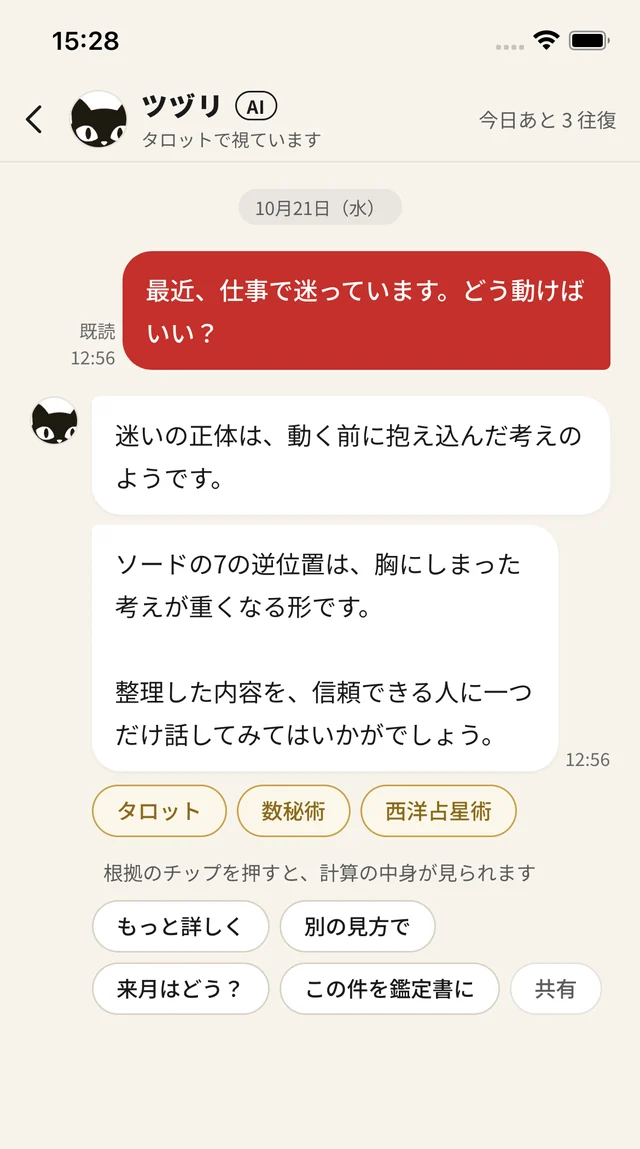
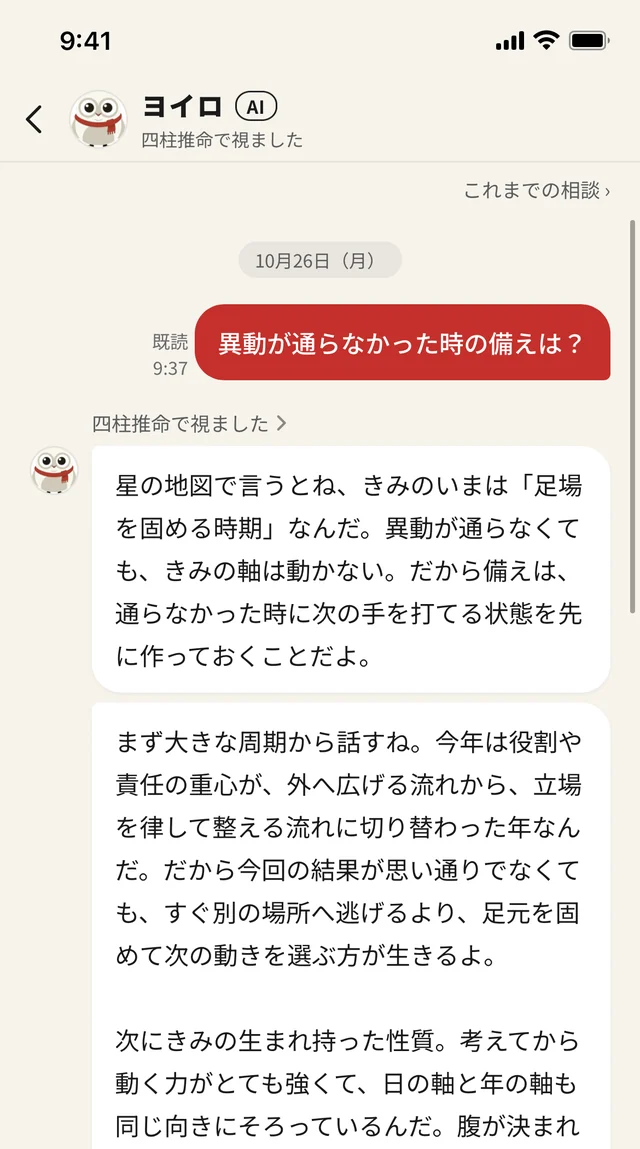
公開: 2026-10-26 02:07

diff --git a/app/index.html b/app/index.html
@@ -4,21 +4,21 @@
 <meta charset="utf-8">
 <meta name="viewport" content="width=device-width, initial-scale=1">
 <title>おつげ｜覚えてくれる AI 占いアプリ・毎朝 1 通の手紙</title>
-<meta name="description" content="AI の占い師 10 人（ツヅリ・ヨイロ・モチロ など）が、生年月日と話したことを覚えて、毎朝 1 通の手紙を届ける占いアプリ「おつげ」。相談は 1 日 3 往復まで無料、今日の一枚は本物のタロットで。アプリは準備中です。">
+<meta name="description" content="AI の占い師 12 人（ヨイロ・ツヅリ・モチロ など）が、生年月日と話したことを覚えて、毎朝 1 通の手紙を届ける占いアプリ「おつげ」。相談は 1 日 3 往復まで無料、今日の一枚は本物のタロットで。アプリは準備中です。">
 <link rel="canonical" href="https://otsuge.jp/app/">
 <meta property="og:type" content="website">
 <meta property="og:site_name" content="おつげ">
 <meta property="og:title" content="おつげ｜覚えてくれる AI 占いアプリ・毎朝 1 通の手紙">
-<meta property="og:description" content="AI の占い師 10 人（ツヅリ・ヨイロ・モチロ など）が、生年月日と話したことを覚えて、毎朝 1 通の手紙を届ける占いアプリ「おつげ」。相談は 1 日 3 往復まで無料、今日の一枚は本物のタロットで。アプリは準備中です。">
+<meta property="og:description" content="AI の占い師 12 人（ヨイロ・ツヅリ・モチロ など）が、生年月日と話したことを覚えて、毎朝 1 通の手紙を届ける占いアプリ「おつげ」。相談は 1 日 3 往復まで無料、今日の一枚は本物のタロットで。アプリは準備中です。">
 <meta property="og:url" content="https://otsuge.jp/app/">
 <meta property="og:locale" content="ja_JP">
 <meta property="og:image" content="https://otsuge.jp/img/og.png">
 <meta property="og:image:width" content="1200">
 <meta property="og:image:height" content="630">
-<meta property="og:image:alt" content="占いアプリ「おつげ」覚えてくれる AI 占い。毎朝 1 通、あなたの一日に合わせた手紙。黒猫の占い師ツヅリ">
+<meta property="og:image:alt" content="占いアプリ「おつげ」覚えてくれる AI 占い。毎朝 1 通、あなたの一日に合わせた手紙。フクロウの占い師ヨイロ">
 <meta name="twitter:card" content="summary_large_image">
 <meta name="twitter:title" content="おつげ｜覚えてくれる AI 占いアプリ・毎朝 1 通の手紙">
-<meta name="twitter:description" content="AI の占い師 10 人（ツヅリ・ヨイロ・モチロ など）が、生年月日と話したことを覚えて、毎朝 1 通の手紙を届ける占いアプリ「おつげ」。相談は 1 日 3 往復まで無料、今日の一枚は本物のタロットで。アプリは準備中です。">
+<meta name="twitter:description" content="AI の占い師 12 人（ヨイロ・ツヅリ・モチロ など）が、生年月日と話したことを覚えて、毎朝 1 通の手紙を届ける占いアプリ「おつげ」。相談は 1 日 3 往復まで無料、今日の一枚は本物のタロットで。アプリは準備中です。">
 <meta name="twitter:image" content="https://otsuge.jp/img/og.png">
 <meta name="theme-color" content="#ffffff">
 <link rel="icon" href="../favicon.ico" sizes="16x16 32x32 48x48">
@@ -27,7 +27,7 @@
 <link rel="preconnect" href="https://fonts.googleapis.com">
 <link rel="preconnect" href="https://fonts.gstatic.com" crossorigin>
 <link rel="stylesheet" href="https://fonts.googleapis.com/css2?family=Noto+Sans+JP:wght@400;700;900&display=swap">
-<link rel="stylesheet" href="https://fonts.googleapis.com/css2?family=Shippori+Mincho:wght@500&amp;display=swap&amp;text=%E3%81%AF%E3%81%98%E3%82%81%E3%81%BE%E3%81%97%E3%81%A6%E3%80%81%E3%83%84%E3%83%85%E3%83%AA%E3%81%A7%E3%81%99%E3%80%82%E7%B5%90%E8%AB%96%E3%81%8B%E3%82%89%E7%9F%AD%E3%81%8F%E4%BC%9D%E3%81%88%E3%82%8B%E3%81%AD%E6%BA%96%E5%82%99%E3%81%8C%E3%81%8D%E3%81%9F%E6%9C%80%E5%88%9D%E3%81%AE1%20%E9%80%9A%E3%82%92%E6%9B%B8">
+<link rel="stylesheet" href="https://fonts.googleapis.com/css2?family=Shippori+Mincho:wght@500&amp;display=swap&amp;text=%E3%81%AF%E3%81%98%E3%82%81%E3%81%BE%E3%81%97%E3%81%A6%E3%80%81%E3%83%A8%E3%82%A4%E3%83%AD%E3%81%A0%E3%82%88%E3%80%82%E3%81%9A%E5%85%A8%E4%BD%93%E3%81%AE%E6%B5%81%E3%82%8C%E3%81%8B%E3%82%89%E3%81%8D%E3%81%BF%E3%81%A8%E8%A6%8B%E3%81%84%E3%81%8F%E3%82%93%E6%BA%96%E5%82%99%E3%81%8C%E3%81%A7%E3%81%9F%E6%9C%80%E5%88%9D1%20%E9%80%9A%E3%82%92%E5%A4%A9%E6%96%87%E5%8F%B0%E5%B1%8A%E3%81%91%E3%82%8B%E3%81%AD">
 <link rel="stylesheet" href="../css/site.css">
 <script type="application/ld+json">{"@context":"https://schema.org","@type":"BreadcrumbList","itemListElement":[{"@type":"ListItem","position":1,"name":"おつげ 無料鑑定","item":"https://otsuge.jp/"},{"@type":"ListItem","position":2,"name":"アプリ「おつげ」","item":"https://otsuge.jp/app/"}]}</script>
 </head>
@@ -42,39 +42,39 @@
 <div class="ap-hero">
 <div class="ap-copy">
 <p class="ap-name"><img src="../icon-192.png" alt="" width="192" height="192" class="icon"><span>占いアプリ「おつげ」</span></p>
-<div class="ap-teller hero">
-<img src="../img/tsuzuri_full.webp" alt="黒猫の占い師ツヅリ" width="420" height="496" fetchpriority="high">
-<div class="ap-bubble"><p class="who">ツヅリ<span class="ai">AI</span></p><p class="msg">はじめまして、ツヅリです。結論から、短く伝えるね。</p></div>
+<div class="ap-teller lead">
+<img src="../img/yoiro_full.webp" alt="フクロウの占い師ヨイロ" width="420" height="496" fetchpriority="high">
+<div class="ap-bubble"><p class="who">ヨイロ<span class="ai">AI</span></p><p class="msg">はじめまして、ヨイロだよ。まず全体の流れから、きみと見ていくんだ。</p></div>
 </div>
 <h1>覚えてくれる AI 占い</h1>
 <p class="ap-sub">毎朝 1 通、あなたの一日に合わせた手紙が届きます</p>
 <p class="cs" data-todo="app-store-url"><span class="en">Coming soon</span><span class="ja">アプリは準備中です</span></p>
 <p class="ap-note">生年月日だけで、登録なし・無料ではじめられます。</p>
 </div>
-<div class="ap-visual"><div class="phone"><img src="../img/app/home.webp" alt="おつげのホーム画面。ツヅリの一言、今日の運勢、今日のやること" width="640" height="1385" fetchpriority="high"></div></div>
+<div class="ap-visual"><div class="phone"><img src="../img/app/home.webp" alt="おつげのホーム画面。ヨイロの一言、今日の運勢、これからの 7 日、今日のやること" width="640" height="1385" fetchpriority="high"></div></div>
 </div>
 
 <section class="ap-sec" aria-labelledby="dk"><h2 id="dk">おつげでできること</h2>
 <div class="feat">
 <div class="tx"><p class="key">毎朝の手紙</p><h3>毎朝 1 通、あなたへの手紙</h3><p>朝になると、占い師から 1 通届きます。その日の六曜・月の満ち欠け・干支と、あなたの生まれの計算から、今日の過ごし方と、小さな一歩をひとつ。</p><ul><li>「なぜ今日か」の根拠つき（暦・数秘術など）</li><li>ラッキーカラー・数字・方位</li><li>一歩を「やった／まだ」で記録</li></ul></div>
-<figure class="scr"><div class="frame"><img src="../img/app/letter.webp" alt="けさのおつげの画面。ツヅリからの手紙と、今日の一歩" width="640" height="1149" loading="lazy"></div></figure>
+<figure class="scr"><div class="frame"><img src="../img/app/letter.webp" alt="けさのおつげの画面。ヨイロからの手紙と、ラッキーカラー・数字・方位、今日の一歩" width="640" height="1247" loading="lazy"></div></figure>
 </div>
 <div class="feat rev">
-<div class="tx"><p class="key">相談</p><h3>話したことを覚えている相談</h3><p>気になることを、占い師にチャットで聞けます。話した出来事や目標は「覚えていること」に残り、次の相談と毎朝の手紙に生きてきます。</p><ul><li>無料で 1 日 3 往復</li><li>根拠のチップを押すと、計算の中身が見られます</li><li>覚えていることは 1 件ずつ消せます</li></ul></div>
-<figure class="scr"><div class="frame"><img src="../img/app/chat.webp" alt="ツヅリへの相談の画面。質問と、タロット・数秘術・西洋占星術の根拠つきの返事" width="640" height="1149" loading="lazy"></div></figure>
+<div class="tx"><p class="key">相談</p><h3>話したことを覚えている相談</h3><p>気になることを、占い師にチャットで聞けます。話した出来事や目標は「覚えていること」に残り、次の相談と毎朝の手紙に生きてきます。</p><ul><li>無料で 1 日 3 往復</li><li>返事の頭の「〜で視ました」を押すと、計算の中身が見られます</li><li>覚えていることは 1 件ずつ消せます</li></ul></div>
+<figure class="scr"><div class="frame"><img src="../img/app/chat.webp" alt="ヨイロへの相談の画面。異動の質問と、四柱推命で視た返事" width="640" height="1149" loading="lazy"></div></figure>
 </div>
 <div class="feat">
 <div class="tx"><p class="key">今日の一枚</p><h3>今日の一枚は、本物のタロットで</h3><p>心に浮かべた問いをひとつ選んで、伏せた札から 1 枚めくります。札はライダー・ウェイト・スミス版（1909 年）の 78 枚。向き（正位置・逆位置）まで読みます。</p><ul><li>問いは 恋愛・仕事・お金・人間関係・自分 から</li><li>1 日 1 回・無料</li><li>引いた札のまま相談に進めます</li></ul></div>
-<figure class="scr"><div class="frame"><img src="../img/app/tarot.webp" alt="今日の一枚の画面。太陽のカードと、ツヅリの読み" width="640" height="1149" loading="lazy"></div></figure>
+<figure class="scr"><div class="frame"><img src="../img/app/tarot.webp" alt="今日の一枚の画面。異動の問いで引いた吊るされた男（逆位置）と、札の意味" width="640" height="1280" loading="lazy"></div></figure>
 </div>
 </section>
 
-<section class="ap-sec" aria-labelledby="ur"><h2 id="ur">占い師は 10 人。あなたの味方を 1 人</h2>
+<section class="ap-sec" aria-labelledby="ur"><h2 id="ur">占い師は 12 人。あなたの味方を 1 人</h2>
 <div class="ur-body">
 <p class="intro">最初に 1 人を選びます。毎朝の手紙と相談は、選んだ占い師が担当します。話したことは、だれを選んでも覚えています。あとから設定で変えられます。</p>
 <ul class="tellers">
-<li><img src="../img/yoiro_full.webp" alt="フクロウの占い師ヨイロ" width="420" height="496" loading="lazy"><div><p class="nm">ヨイロ<span class="ai">AI</span></p><p class="sp">フクロウ・大きな流れから</p><p class="ln">大きな流れから。全体を見せてから、細かな話に進みます</p></div></li>
-<li><img src="../img/tsuzuri_full.webp" alt="黒猫の占い師ツヅリ" width="420" height="496" loading="lazy"><div><p class="nm">ツヅリ<span class="ai">AI</span><span class="pick">おすすめ</span></p><p class="sp">黒猫・結論から</p><p class="ln">結論から短く。先に答えを言ってから、理由を 1 行添えます</p></div></li>
+<li><img src="../img/yoiro_full.webp" alt="フクロウの占い師ヨイロ" width="420" height="496" loading="lazy"><div><p class="nm">ヨイロ<span class="ai">AI</span><span class="pick">おすすめ</span></p><p class="sp">フクロウ・大きな流れから</p><p class="ln">大きな流れから。全体を見せてから、細かな話に進みます</p></div></li>
+<li><img src="../img/tsuzuri_full.webp" alt="黒猫の占い師ツヅリ" width="420" height="496" loading="lazy"><div><p class="nm">ツヅリ<span class="ai">AI</span></p><p class="sp">黒猫・結論から</p><p class="ln">結論から短く。先に答えを言ってから、理由を短く添えます</p></div></li>
 <li><img src="../img/mochiro_full.webp" alt="月ウサギの占い師モチロ" width="420" height="496" loading="lazy"><div><p class="nm">モチロ<span class="ai">AI</span></p><p class="sp">月ウサギ・今日の一歩を</p><p class="ln">今日の一歩を。大きな話より、今日できるひとつを大事にします</p></div></li>
 <li><img src="../img/kiriri_full.webp" alt="白狐の占い師キリリ" width="420" height="496" loading="lazy"><div><p class="nm">キリリ<span class="ai">AI</span></p><p class="sp">白狐・はっきり言う</p><p class="ln">はっきり言う。良いことも悪いことも、先に言います</p></div></li>
 <li><img src="../img/yururi_full.webp" alt="たぬきの占い師ユルリ" width="420" height="496" loading="lazy"><div><p class="nm">ユルリ<span class="ai">AI</span></p><p class="sp">たぬき・まず受け止める</p><p class="ln">まず受け止める。急がせず、気持ちをそのまま聞きます</p></div></li>
@@ -83,6 +83,8 @@
 <li><img src="../img/kikuno_full.webp" alt="柴犬の占い師キクノ" width="420" height="496" loading="lazy"><div><p class="nm">キクノ<span class="ai">AI</span></p><p class="sp">柴犬・先に聞く</p><p class="ln">先に聞く。問い返して、考えを一緒に整えます</p></div></li>
 <li><img src="../img/shirabe_full.webp" alt="鶴の占い師シラベ" width="420" height="496" loading="lazy"><div><p class="nm">シラベ<span class="ai">AI</span></p><p class="sp">鶴・根拠をそろえる</p><p class="ln">根拠をそろえる。数と理由を順に並べて、答えを支えます</p></div></li>
 <li><img src="../img/tokoyo_full.webp" alt="亀の占い師トコヨ" width="420" height="496" loading="lazy"><div><p class="nm">トコヨ<span class="ai">AI</span></p><p class="sp">亀・長い目で</p><p class="ln">長い目で。1 年・3 年の流れの中に、今を置きます</p></div></li>
+<li><img src="../img/takuwa_full.webp" alt="ハムスターの占い師タクワ" width="420" height="496" loading="lazy"><div><p class="nm">タクワ<span class="ai">AI</span></p><p class="sp">ハムスター・備えておく</p><p class="ln">備えておく。もしもの場合をひとつ挙げて、そのための備えを添えます</p></div></li>
+<li><img src="../img/meguru_full.webp" alt="カエルの占い師メグル" width="420" height="496" loading="lazy"><div><p class="nm">メグル<span class="ai">AI</span></p><p class="sp">カエル・めぐる時期を</p><p class="ln">めぐる時期を。悪い流れも、いつ戻るかを添えて読みます</p></div></li>
 </ul>
 </div>
 </section>
@@ -94,7 +96,7 @@
 <p class="sm">生年月日だけで、登録なしではじめられます。</p></div>
 <div class="plan-col">
 <div class="plan"><h3>プレミアム</h3>
-<dl class="rows"><div><dt>年額</dt><dd><b>¥7,800</b> <span class="nw">（月あたり ¥650）</span></dd></div><div><dt>月額</dt><dd><b>¥1,480</b></dd></div></dl>
+<dl class="rows"><div><dt>年額</dt><dd><b>¥9,800</b> <span class="nw">（月あたり ¥817）</span></dd></div><div><dt>6 か月</dt><dd><b>¥6,400</b> <span class="nw">（月あたり ¥1,067）</span></dd></div><div><dt>3 か月</dt><dd><b>¥3,800</b> <span class="nw">（月あたり ¥1,267）</span></dd></div><div><dt>月額</dt><dd><b>¥1,480</b></dd></div></dl>
 <ul><li>相談 1 日 10 往復</li><li>重い相談も結論まで</li><li>全部の鑑定の全文</li></ul></div>
 <div class="plan"><h3>鑑定書（1 通ずつ）</h3>
 <p class="sm">ひとつの相談を、結論とその理由まで読み解いた 1 通。PDF で保存できます。</p>
@@ -106,7 +108,7 @@
 
 <section class="ap-sec" aria-labelledby="ai"><h2 id="ai">AI の鑑定と、あなたの情報</h2>
 <dl class="qa">
-<div><dt>鑑定は、だれが書いていますか</dt><dd>AI が書いています。ヨイロ・ツヅリ・モチロは人ではなく AI の占い師で、霊感や鑑定歴はありません。星の位置・命式・数は計算で出し、AI には計算させません。タロットの札も AI には選ばせません。</dd></div>
+<div><dt>鑑定は、だれが書いていますか</dt><dd>AI が書いています。おつげの占い師は 12 人とも人ではなく AI で、霊感や鑑定歴はありません。星の位置・命式・数は計算で出し、AI には計算させません。タロットの札も AI には選ばせません。</dd></div>
 <div><dt>結果は約束されますか</dt><dd>鑑定は、娯楽を目的とした読み物です。結果を約束するものではありません。大切なことは、鑑定をひとつの材料として、ご自身で決めてください。</dd></div>
 <div><dt>何歳から使えますか</dt><dd>18 歳以上の方がご利用いただけます。18 歳未満の方はご利用いただけません。</dd></div>
 <div><dt>入力した生年月日や相談はどう扱われますか</dt><dd>鑑定文をつくるため、出生データと相談の文章を、おつげのサーバーを通して AI の提供元（米国の Anthropic, PBC）へ送ります。最初の鑑定の前に同意をいただきます。保管は日本（東京）で、通信も保管も暗号化しています。</dd></div>
@@ -124,8 +126,8 @@
 
 <section class="ap-end" aria-labelledby="dl">
 <div class="ap-teller end">
-<img src="../img/tsuzuri_full.webp" alt="黒猫の占い師ツヅリ" width="420" height="496" loading="lazy">
-<div class="ap-bubble"><p class="who">ツヅリ<span class="ai">AI</span></p><p class="msg">準備ができたら、最初の<span class="nw">1 通</span>を書くね。</p></div>
+<img src="../img/yoiro_full.webp" alt="フクロウの占い師ヨイロ" width="420" height="496" loading="lazy">
+<div class="ap-bubble"><p class="who">ヨイロ<span class="ai">AI</span></p><p class="msg">準備ができたら、最初の<span class="nw">1 通</span>を天文台から届けるね。</p></div>
 </div>
 <h2 id="dl">覚えてくれる AI 占い「おつげ」</h2>
 <p class="cs" data-todo="app-store-url"><span class="en">Coming soon</span><span class="ja">アプリは準備中です</span></p>

diff --git a/kichijitsu/2027/07/index.html b/kichijitsu/2027/07/index.html
@@ -53,7 +53,7 @@
 <tr><td data-date="2027-07-25" class="red"><div class="n">25</div><div class="rk">先負</div><div class="tags"></div></td><td data-date="2027-07-26"><div class="n">26</div><div class="rk">仏滅</div><div class="tags"><span class="chip ichiryu"><span class="l">一粒万倍日</span><span class="s">万倍</span></span></div></td><td data-date="2027-07-27"><div class="n">27</div><div class="rk taian">大安</div><div class="tags"></div></td><td data-date="2027-07-28"><div class="n">28</div><div class="rk">赤口</div><div class="tags"></div></td><td data-date="2027-07-29"><div class="n">29</div><div class="rk">先勝</div><div class="tags"><span class="chip ichiryu"><span class="l">一粒万倍日</span><span class="s">万倍</span></span></div></td><td data-date="2027-07-30"><div class="n">30</div><div class="rk">友引</div><div class="tags"></div></td><td data-date="2027-07-31"><div class="n">31</div><div class="rk">先負</div><div class="tags"></div></td></tr></tbody></table>
 <div class="legend" aria-label="凡例"><span><span class="chip tensha">天赦</span>天赦日</span><span><span class="chip ichiryu">万倍</span>一粒万倍日</span><span><span class="chip moon">●新月</span>／<span class="chip moon">○満月</span></span><span><span class="chip retro">逆行</span>水星逆行の始まり／<span class="chip retro">順行</span>終わり</span></div>
 </section>
-<section aria-label="ツヅリのひとこと"><div class="say"><img src="../../../img/tsuzuri.png" alt="黒猫の占い師ツヅリ" width="118" height="100" loading="lazy"><div class="bubble"><p class="who">ツヅリ（おつげの占い師）</p><p><span class="nw">7月14日（水）</span>は天赦日と一粒万倍日が重なる、この月でいちばん大きな吉日です。始めたいことの最初の一歩を、ここに置いてみませんか。2027年6月11日〜7月5日は水星逆行。連絡や契約は、いつもより一度見直してから。</p></div></div></section>
+<section aria-label="ヨイロのひとこと"><div class="say"><img src="../../../img/yoiro.png" alt="フクロウの占い師ヨイロ" width="118" height="100" loading="lazy"><div class="bubble"><p class="who">ヨイロ（おつげの占い師）</p><p>7月をひと目で見ると、山は<span class="nw">7月14日（水）</span>なんだ。天赦日と一粒万倍日が重なる、この月でいちばん大きな吉日だよ。始めたいことの最初の一歩は、ここに置くといいね。2027年6月11日〜7月5日は水星逆行で、雲が出ている時期だね。連絡や契約は、送る前に一度見直してからにしよう。</p></div></div></section>
 <section aria-labelledby="dl"><h2 id="dl">7月の六曜と吉日（日ごと）</h2>
 <table class="days"><thead><tr><th scope="col">日付</th><th scope="col">六曜</th><th scope="col">吉日・暦</th></tr></thead><tbody><tr><th scope="row"><span class="nw">7月1日（木）</span><small>旧暦 5月27日・辛巳</small></th><td class="rk">先勝</td><td class="e"><div class="ev"><span class="chip ichiryu">一粒万倍日</span><span class="t">水星逆行中</span></div></td></tr>
 <tr><th scope="row"><span class="nw">7月2日（金）</span><small>旧暦 5月28日・壬午</small></th><td class="rk">友引</td><td class="e"><div class="ev"><span class="chip ichiryu">一粒万倍日</span><span class="t">水星逆行中</span></div></td></tr>

diff --git a/kichijitsu/2027/09/index.html b/kichijitsu/2027/09/index.html
@@ -53,7 +53,7 @@
 <tr><td data-date="2027-09-26" class="red top"><div class="n">26</div><div class="rk">先負</div><div class="tags"><span class="chip tensha"><span class="l">天赦日</span><span class="s">天赦</span></span><span class="chip ichiryu"><span class="l">一粒万倍日</span><span class="s">万倍</span></span></div></td><td data-date="2027-09-27"><div class="n">27</div><div class="rk">仏滅</div><div class="tags"></div></td><td data-date="2027-09-28"><div class="n">28</div><div class="rk taian">大安</div><div class="tags"></div></td><td data-date="2027-09-29"><div class="n">29</div><div class="rk">赤口</div><div class="tags"></div></td><td data-date="2027-09-30"><div class="n">30</div><div class="rk">先負</div><div class="tags"><span class="chip moon">●<span class="l">新月 11:36</span><span class="s">新月</span></span></div></td><td class="blank"></td><td class="blank"></td></tr></tbody></table>
 <div class="legend" aria-label="凡例"><span><span class="chip tensha">天赦</span>天赦日</span><span><span class="chip ichiryu">万倍</span>一粒万倍日</span><span><span class="chip moon">●新月</span>／<span class="chip moon">○満月</span></span><span><span class="chip retro">逆行</span>水星逆行の始まり／<span class="chip retro">順行</span>終わり</span></div>
 </section>
-<section aria-label="ツヅリのひとこと"><div class="say"><img src="../../../img/tsuzuri.png" alt="黒猫の占い師ツヅリ" width="118" height="100" loading="lazy"><div class="bubble"><p class="who">ツヅリ（おつげの占い師）</p><p><span class="nw">9月26日（日）</span>は天赦日と一粒万倍日が重なる、この月でいちばん大きな吉日です。始めたいことの最初の一歩を、ここに置いてみませんか。新月は<span class="nw">9月1日（水）</span>。願い事を書き出すなら、この日に。</p></div></div></section>
+<section aria-label="ヨイロのひとこと"><div class="say"><img src="../../../img/yoiro.png" alt="フクロウの占い師ヨイロ" width="118" height="100" loading="lazy"><div class="bubble"><p class="who">ヨイロ（おつげの占い師）</p><p>9月をひと目で見ると、山は<span class="nw">9月26日（日）</span>なんだ。天赦日と一粒万倍日が重なる、この月でいちばん大きな吉日だよ。始めたいことの最初の一歩は、ここに置くといいね。星の地図で言うとね、新月は<span class="nw">9月1日（水）</span>。願い事を書き出すなら、この夜がいいね。</p></div></div></section>
 <section aria-labelledby="dl"><h2 id="dl">9月の六曜と吉日（日ごと）</h2>
 <table class="days"><thead><tr><th scope="col">日付</th><th scope="col">六曜</th><th scope="col">吉日・暦</th></tr></thead><tbody><tr><th scope="row"><span class="nw">9月1日（水）</span><small>旧暦 8月1日・癸未</small></th><td class="rk">友引</td><td class="e"><div class="ev"><span class="chip ichiryu">一粒万倍日</span><span class="t">新月（02:41）</span></div></td></tr>
 <tr class="quiet"><th scope="row"><span class="nw">9月2日（木）</span><small>旧暦 8月2日・甲申</small></th><td class="rk">先負</td><td class="e"><div class="ev">—</div></td></tr>

diff --git a/kichijitsu/2026/12/index.html b/kichijitsu/2026/12/index.html
@@ -53,7 +53,7 @@
 <tr><td data-date="2026-12-27" class="red top"><div class="n">27</div><div class="rk taian">大安</div><div class="tags"><span class="chip ichiryu"><span class="l">一粒万倍日</span><span class="s">万倍</span></span></div></td><td data-date="2026-12-28"><div class="n">28</div><div class="rk">赤口</div><div class="tags"><span class="chip ichiryu"><span class="l">一粒万倍日</span><span class="s">万倍</span></span></div></td><td data-date="2026-12-29"><div class="n">29</div><div class="rk">先勝</div><div class="tags"></div></td><td data-date="2026-12-30"><div class="n">30</div><div class="rk">友引</div><div class="tags"></div></td><td data-date="2026-12-31"><div class="n">31</div><div class="rk">先負</div><div class="tags"></div></td><td class="blank"></td><td class="blank"></td></tr></tbody></table>
 <div class="legend" aria-label="凡例"><span><span class="chip tensha">天赦</span>天赦日</span><span><span class="chip ichiryu">万倍</span>一粒万倍日</span><span><span class="chip moon">●新月</span>／<span class="chip moon">○満月</span></span><span><span class="chip retro">逆行</span>水星逆行の始まり／<span class="chip retro">順行</span>終わり</span></div>
 </section>
-<section aria-label="ツヅリのひとこと"><div class="say"><img src="../../../img/tsuzuri.png" alt="黒猫の占い師ツヅリ" width="118" height="100" loading="lazy"><div class="bubble"><p class="who">ツヅリ（おつげの占い師）</p><p><span class="nw">12月16日（水）</span>は天赦日と一粒万倍日が重なる、この月でいちばん大きな吉日です。始めたいことの最初の一歩を、ここに置いてみませんか。新月は<span class="nw">12月9日（水）</span>。願い事を書き出すなら、この日に。</p></div></div></section>
+<section aria-label="ヨイロのひとこと"><div class="say"><img src="../../../img/yoiro.png" alt="フクロウの占い師ヨイロ" width="118" height="100" loading="lazy"><div class="bubble"><p class="who">ヨイロ（おつげの占い師）</p><p>12月をひと目で見ると、山は<span class="nw">12月16日（水）</span>なんだ。天赦日と一粒万倍日が重なる、この月でいちばん大きな吉日だよ。始めたいことの最初の一歩は、ここに置くといいね。星の地図で言うとね、新月は<span class="nw">12月9日（水）</span>。願い事を書き出すなら、この夜がいいね。</p></div></div></section>
 <section aria-labelledby="dl"><h2 id="dl">12月の六曜と吉日（日ごと）</h2>
 <table class="days"><thead><tr><th scope="col">日付</th><th scope="col">六曜</th><th scope="col">吉日・暦</th></tr></thead><tbody><tr><th scope="row"><span class="nw">12月1日（火）</span><small>旧暦 10月23日・己酉</small></th><td class="rk">友引</td><td class="e"><div class="ev"><span class="chip ichiryu">一粒万倍日</span><span class="t">下弦（15:09）</span></div></td></tr>
 <tr><th scope="row"><span class="nw">12月2日（水）</span><small>旧暦 10月24日・庚戌</small></th><td class="rk">先負</td><td class="e"><div class="ev"><span class="chip ichiryu">一粒万倍日</span></div></td></tr>

diff --git a/kichijitsu/2027/04/index.html b/kichijitsu/2027/04/index.html
@@ -53,7 +53,7 @@
 <tr><td data-date="2027-04-25" class="red"><div class="n">25</div><div class="rk">先負</div><div class="tags"></div></td><td data-date="2027-04-26"><div class="n">26</div><div class="rk">仏滅</div><div class="tags"></div></td><td data-date="2027-04-27" class="top"><div class="n">27</div><div class="rk taian">大安</div><div class="tags"><span class="chip ichiryu"><span class="l">一粒万倍日</span><span class="s">万倍</span></span></div></td><td data-date="2027-04-28"><div class="n">28</div><div class="rk">赤口</div><div class="tags"></div></td><td data-date="2027-04-29" class="red"><div class="n">29</div><div class="hol">昭和の日</div><div class="rk">先勝</div><div class="tags"><span class="chip tensha"><span class="l">天赦日</span><span class="s">天赦</span></span></div></td><td data-date="2027-04-30"><div class="n">30</div><div class="rk">友引</div><div class="tags"><span class="chip ichiryu"><span class="l">一粒万倍日</span><span class="s">万倍</span></span></div></td><td class="blank"></td></tr></tbody></table>
 <div class="legend" aria-label="凡例"><span><span class="chip tensha">天赦</span>天赦日</span><span><span class="chip ichiryu">万倍</span>一粒万倍日</span><span><span class="chip moon">●新月</span>／<span class="chip moon">○満月</span></span><span><span class="chip retro">逆行</span>水星逆行の始まり／<span class="chip retro">順行</span>終わり</span></div>
 </section>
-<section aria-label="ツヅリのひとこと"><div class="say"><img src="../../../img/tsuzuri.png" alt="黒猫の占い師ツヅリ" width="118" height="100" loading="lazy"><div class="bubble"><p class="who">ツヅリ（おつげの占い師）</p><p><span class="nw">4月29日（木）</span>は天赦日。暦の上で最上の吉日とされる日が、4月に来ます。新月は<span class="nw">4月7日（水）</span>。願い事を書き出すなら、この日に。</p></div></div></section>
+<section aria-label="ヨイロのひとこと"><div class="say"><img src="../../../img/yoiro.png" alt="フクロウの占い師ヨイロ" width="118" height="100" loading="lazy"><div class="bubble"><p class="who">ヨイロ（おつげの占い師）</p><p>4月をひと目で見ると、山は天赦日の<span class="nw">4月29日（木）</span>なんだ。暦の上で最上の吉日とされる日だね。星の地図で言うとね、新月は<span class="nw">4月7日（水）</span>。願い事を書き出すなら、この夜がいいね。</p></div></div></section>
 <section aria-labelledby="dl"><h2 id="dl">4月の六曜と吉日（日ごと）</h2>
 <table class="days"><thead><tr><th scope="col">日付</th><th scope="col">六曜</th><th scope="col">吉日・暦</th></tr></thead><tbody><tr class="quiet"><th scope="row"><span class="nw">4月1日（木）</span><small>旧暦 2月25日・庚戌</small></th><td class="rk">友引</td><td class="e"><div class="ev">—</div></td></tr>
 <tr class="quiet"><th scope="row"><span class="nw">4月2日（金）</span><small>旧暦 2月26日・辛亥</small></th><td class="rk">先負</td><td class="e"><div class="ev">—</div></td></tr>

diff --git a/index.html b/index.html
@@ -15,7 +15,7 @@
 <meta property="og:image" content="https://otsuge.jp/img/og.png">
 <meta property="og:image:width" content="1200">
 <meta property="og:image:height" content="630">
-<meta property="og:image:alt" content="占いアプリ「おつげ」覚えてくれる AI 占い。毎朝 1 通、あなたの一日に合わせた手紙。黒猫の占い師ツヅリ">
+<meta property="og:image:alt" content="占いアプリ「おつげ」覚えてくれる AI 占い。毎朝 1 通、あなたの一日に合わせた手紙。フクロウの占い師ヨイロ">
 <meta name="twitter:card" content="summary_large_image">
 <meta name="twitter:title" content="おつげの無料鑑定｜吉日カレンダー・12星座占い・誕生日の相性占い・姓名判断（登録不要）">
 <meta name="twitter:description" content="一粒万倍日・天赦日・大安・新月満月・水星逆行がわかる吉日カレンダーと、12 星座の今日の運勢ランキング、ふたりの生年月日だけで見る相性占い、名前の画数で五格を出す姓名判断。会員登録なし・無料。AI 占いアプリ「おつげ」の無料鑑定です。">
@@ -40,7 +40,7 @@
 
 <a class="appband" href="./app/"><span class="ph"><img src="./img/app/home.webp" alt="" width="640" height="1385"></span><span class="tx"><b>アプリ「おつげ」<span class="cs mini" data-todo="app-store-url">Coming soon</span></b><span>覚えてくれる AI 占い。毎朝 1 通、あなたの一日に合わせた手紙が届きます。</span></span><span class="go">アプリを見る ›</span></a>
 <div class="head hero"><div><h1>登録なしで使える、「おつげ」の無料鑑定</h1>
-<p class="lead">吉日カレンダーと、12 星座の今日の運勢ランキング、誕生日ふたつで見る相性占い、名前の画数で見る姓名判断。どれも会員登録なし・無料です。暦と占いの計算はアプリと同じ決まりで出しています。</p></div><img src="img/tsuzuri.png" alt="黒猫の占い師ツヅリ" width="118" height="100"></div>
+<p class="lead">吉日カレンダーと、12 星座の今日の運勢ランキング、誕生日ふたつで見る相性占い、名前の画数で見る姓名判断。どれも会員登録なし・無料です。暦と占いの計算はアプリと同じ決まりで出しています。</p></div><img src="img/yoiro.png" alt="フクロウの占い師ヨイロ" width="118" height="100"></div>
 <div class="doors">
 <a class="door" href="./kichijitsu/"><div><h2>吉日カレンダー</h2><p>一粒万倍日・天赦日・大安などの六曜、新月と満月、水星逆行、二十四節気を月ごとに。2027年の一覧もあります。</p></div><span class="go">カレンダーを見る ›</span></a>
 <a class="door" href="./seiza/"><div><h2>12星座占い</h2><p>今日と明日の運勢を 1〜12 位のランキングで。正午の月の位置と星の動きから、総合運・恋愛運・金運・仕事運を 5 段階の星で出し、その出し方もお見せします。</p></div><span class="go">今日の運勢を見る ›</span></a>

diff --git a/kichijitsu/2027/12/index.html b/kichijitsu/2027/12/index.html
@@ -53,7 +53,7 @@
 <tr><td data-date="2027-12-26" class="red"><div class="n">26</div><div class="rk">先負</div><div class="tags"></div></td><td data-date="2027-12-27"><div class="n">27</div><div class="rk">仏滅</div><div class="tags"></div></td><td data-date="2027-12-28"><div class="n">28</div><div class="rk">赤口</div><div class="tags"><span class="chip moon">●<span class="l">新月 05:12</span><span class="s">新月</span></span></div></td><td data-date="2027-12-29"><div class="n">29</div><div class="rk">先勝</div><div class="tags"></div></td><td data-date="2027-12-30"><div class="n">30</div><div class="rk">友引</div><div class="tags"></div></td><td data-date="2027-12-31"><div class="n">31</div><div class="rk">先負</div><div class="tags"></div></td><td class="blank"></td></tr></tbody></table>
 <div class="legend" aria-label="凡例"><span><span class="chip tensha">天赦</span>天赦日</span><span><span class="chip ichiryu">万倍</span>一粒万倍日</span><span><span class="chip moon">●新月</span>／<span class="chip moon">○満月</span></span><span><span class="chip retro">逆行</span>水星逆行の始まり／<span class="chip retro">順行</span>終わり</span></div>
 </section>
-<section aria-label="ツヅリのひとこと"><div class="say"><img src="../../../img/tsuzuri.png" alt="黒猫の占い師ツヅリ" width="118" height="100" loading="lazy"><div class="bubble"><p class="who">ツヅリ（おつげの占い師）</p><p><span class="nw">12月11日（土）</span>は天赦日と一粒万倍日が重なる、この月でいちばん大きな吉日です。始めたいことの最初の一歩を、ここに置いてみませんか。新月は<span class="nw">12月28日（火）</span>。願い事を書き出すなら、この日に。</p></div></div></section>
+<section aria-label="ヨイロのひとこと"><div class="say"><img src="../../../img/yoiro.png" alt="フクロウの占い師ヨイロ" width="118" height="100" loading="lazy"><div class="bubble"><p class="who">ヨイロ（おつげの占い師）</p><p>12月をひと目で見ると、山は<span class="nw">12月11日（土）</span>なんだ。天赦日と一粒万倍日が重なる、この月でいちばん大きな吉日だよ。始めたいことの最初の一歩は、ここに置くといいね。星の地図で言うとね、新月は<span class="nw">12月28日（火）</span>。願い事を書き出すなら、この夜がいいね。</p></div></div></section>
 <section aria-labelledby="dl"><h2 id="dl">12月の六曜と吉日（日ごと）</h2>
 <table class="days"><thead><tr><th scope="col">日付</th><th scope="col">六曜</th><th scope="col">吉日・暦</th></tr></thead><tbody><tr class="quiet"><th scope="row"><span class="nw">12月1日（水）</span><small>旧暦 11月4日・甲寅</small></th><td class="rk">友引</td><td class="e"><div class="ev">—</div></td></tr>
 <tr class="quiet"><th scope="row"><span class="nw">12月2日（木）</span><small>旧暦 11月5日・乙卯</small></th><td class="rk">先負</td><td class="e"><div class="ev">—</div></td></tr>

diff --git a/kichijitsu/2027/11/index.html b/kichijitsu/2027/11/index.html
@@ -53,7 +53,7 @@
 <tr><td data-date="2027-11-28" class="red"><div class="n">28</div><div class="rk taian">大安</div><div class="tags"><span class="chip moon">●<span class="l">新月 12:24</span><span class="s">新月</span></span></div></td><td data-date="2027-11-29"><div class="n">29</div><div class="rk">赤口</div><div class="tags"></div></td><td data-date="2027-11-30"><div class="n">30</div><div class="rk">先勝</div><div class="tags"></div></td><td class="blank"></td><td class="blank"></td><td class="blank"></td><td class="blank"></td></tr></tbody></table>
 <div class="legend" aria-label="凡例"><span><span class="chip tensha">天赦</span>天赦日</span><span><span class="chip ichiryu">万倍</span>一粒万倍日</span><span><span class="chip moon">●新月</span>／<span class="chip moon">○満月</span></span><span><span class="chip retro">逆行</span>水星逆行の始まり／<span class="chip retro">順行</span>終わり</span></div>
 </section>
-<section aria-label="ツヅリのひとこと"><div class="say"><img src="../../../img/tsuzuri.png" alt="黒猫の占い師ツヅリ" width="118" height="100" loading="lazy"><div class="bubble"><p class="who">ツヅリ（おつげの占い師）</p><p>11月は天赦日がなく、一粒万倍日と大安も重なりません。一粒万倍日の<span class="nw">2日</span>・<span class="nw">14日</span>・<span class="nw">15日</span>・<span class="nw">26日</span>・<span class="nw">27日</span>から、予定に合う日を選んでください。新月は<span class="nw">11月28日（日）</span>。願い事を書き出すなら、この日に。</p></div></div></section>
+<section aria-label="ヨイロのひとこと"><div class="say"><img src="../../../img/yoiro.png" alt="フクロウの占い師ヨイロ" width="118" height="100" loading="lazy"><div class="bubble"><p class="who">ヨイロ（おつげの占い師）</p><p>11月は天赦日がなくて、一粒万倍日と大安も重ならない月なんだ。一粒万倍日の<span class="nw">2日</span>・<span class="nw">14日</span>・<span class="nw">15日</span>・<span class="nw">26日</span>・<span class="nw">27日</span>から、きみの予定に合う日を選ぶといいね。星の地図で言うとね、新月は<span class="nw">11月28日（日）</span>。願い事を書き出すなら、この夜がいいね。</p></div></div></section>
 <section aria-labelledby="dl"><h2 id="dl">11月の六曜と吉日（日ごと）</h2>
 <table class="days"><thead><tr><th scope="col">日付</th><th scope="col">六曜</th><th scope="col">吉日・暦</th></tr></thead><tbody><tr class="quiet"><th scope="row"><span class="nw">11月1日（月）</span><small>旧暦 10月4日・甲申</small></th><td class="rk">先勝</td><td class="e"><div class="ev">—</div></td></tr>
 <tr><th scope="row"><span class="nw">11月2日（火）</span><small>旧暦 10月5日・乙酉</small></th><td class="rk">友引</td><td class="e"><div class="ev"><span class="chip ichiryu">一粒万倍日</span></div></td></tr>

diff --git a/kichijitsu/2027/06/index.html b/kichijitsu/2027/06/index.html
@@ -53,7 +53,7 @@
 <tr><td data-date="2027-06-27" class="red"><div class="n">27</div><div class="rk">先負</div><div class="tags"><span class="chip term mid">水星逆行中</span></div></td><td data-date="2027-06-28"><div class="n">28</div><div class="rk">仏滅</div><div class="tags"><span class="chip term mid">水星逆行中</span></div></td><td data-date="2027-06-29"><div class="n">29</div><div class="rk taian">大安</div><div class="tags"><span class="chip term mid">水星逆行中</span></div></td><td data-date="2027-06-30"><div class="n">30</div><div class="rk">赤口</div><div class="tags"><span class="chip term mid">水星逆行中</span></div></td><td class="blank"></td><td class="blank"></td><td class="blank"></td></tr></tbody></table>
 <div class="legend" aria-label="凡例"><span><span class="chip tensha">天赦</span>天赦日</span><span><span class="chip ichiryu">万倍</span>一粒万倍日</span><span><span class="chip moon">●新月</span>／<span class="chip moon">○満月</span></span><span><span class="chip retro">逆行</span>水星逆行の始まり／<span class="chip retro">順行</span>終わり</span></div>
 </section>
-<section aria-label="ツヅリのひとこと"><div class="say"><img src="../../../img/tsuzuri.png" alt="黒猫の占い師ツヅリ" width="118" height="100" loading="lazy"><div class="bubble"><p class="who">ツヅリ（おつげの占い師）</p><p>6月は天赦日がありません。一粒万倍日と大安が重なる<span class="nw">6月5日（土）</span>が、この月の狙い目です。2027年6月11日〜7月5日は水星逆行。連絡や契約は、いつもより一度見直してから。</p></div></div></section>
+<section aria-label="ヨイロのひとこと"><div class="say"><img src="../../../img/yoiro.png" alt="フクロウの占い師ヨイロ" width="118" height="100" loading="lazy"><div class="bubble"><p class="who">ヨイロ（おつげの占い師）</p><p>たとえるなら、6月は高い山のない、なだらかな月なんだ。天赦日はなくて、一粒万倍日と大安が重なる<span class="nw">6月5日（土）</span>がいちばん高い所だね。2027年6月11日〜7月5日は水星逆行で、雲が出ている時期だね。連絡や契約は、送る前に一度見直してからにしよう。</p></div></div></section>
 <section aria-labelledby="dl"><h2 id="dl">6月の六曜と吉日（日ごと）</h2>
 <table class="days"><thead><tr><th scope="col">日付</th><th scope="col">六曜</th><th scope="col">吉日・暦</th></tr></thead><tbody><tr class="quiet"><th scope="row"><span class="nw">6月1日（火）</span><small>旧暦 4月27日・辛亥</small></th><td class="rk">赤口</td><td class="e"><div class="ev">—</div></td></tr>
 <tr class="quiet"><th scope="row"><span class="nw">6月2日（水）</span><small>旧暦 4月28日・壬子</small></th><td class="rk">先勝</td><td class="e"><div class="ev">—</div></td></tr>

diff --git a/kichijitsu/2027/08/index.html b/kichijitsu/2027/08/index.html
@@ -53,7 +53,7 @@
 <tr><td data-date="2027-08-29" class="red"><div class="n">29</div><div class="rk">仏滅</div><div class="tags"></div></td><td data-date="2027-08-30"><div class="n">30</div><div class="rk taian">大安</div><div class="tags"></div></td><td data-date="2027-08-31"><div class="n">31</div><div class="rk">赤口</div><div class="tags"></div></td><td class="blank"></td><td class="blank"></td><td class="blank"></td><td class="blank"></td></tr></tbody></table>
 <div class="legend" aria-label="凡例"><span><span class="chip tensha">天赦</span>天赦日</span><span><span class="chip ichiryu">万倍</span>一粒万倍日</span><span><span class="chip moon">●新月</span>／<span class="chip moon">○満月</span></span><span><span class="chip retro">逆行</span>水星逆行の始まり／<span class="chip retro">順行</span>終わり</span></div>
 </section>
-<section aria-label="ツヅリのひとこと"><div class="say"><img src="../../../img/tsuzuri.png" alt="黒猫の占い師ツヅリ" width="118" height="100" loading="lazy"><div class="bubble"><p class="who">ツヅリ（おつげの占い師）</p><p>8月は天赦日がなく、一粒万倍日と大安も重なりません。一粒万倍日の<span class="nw">7日</span>・<span class="nw">8日</span>・<span class="nw">13日</span>・<span class="nw">20日</span>・<span class="nw">25日</span>から、予定に合う日を選んでください。新月は<span class="nw">8月2日（月）</span>。願い事を書き出すなら、この日に。</p></div></div></section>
+<section aria-label="ヨイロのひとこと"><div class="say"><img src="../../../img/yoiro.png" alt="フクロウの占い師ヨイロ" width="118" height="100" loading="lazy"><div class="bubble"><p class="who">ヨイロ（おつげの占い師）</p><p>8月は天赦日がなくて、一粒万倍日と大安も重ならない月なんだ。一粒万倍日の<span class="nw">7日</span>・<span class="nw">8日</span>・<span class="nw">13日</span>・<span class="nw">20日</span>・<span class="nw">25日</span>から、きみの予定に合う日を選ぶといいね。星の地図で言うとね、新月は<span class="nw">8月2日（月）</span>。願い事を書き出すなら、この夜がいいね。</p></div></div></section>
 <section aria-labelledby="dl"><h2 id="dl">8月の六曜と吉日（日ごと）</h2>
 <table class="days"><thead><tr><th scope="col">日付</th><th scope="col">六曜</th><th scope="col">吉日・暦</th></tr></thead><tbody><tr class="quiet"><th scope="row" class="red"><span class="nw">8月1日（日）</span><small>旧暦 6月29日・壬子</small></th><td class="rk">仏滅</td><td class="e"><div class="ev">—</div></td></tr>
 <tr><th scope="row"><span class="nw">8月2日（月）</span><small>旧暦 7月1日・癸丑</small></th><td class="rk">先勝</td><td class="e"><div class="ev"><span class="t">新月（19:05）</span></div></td></tr>

diff --git a/kichijitsu/2026/11/index.html b/kichijitsu/2026/11/index.html
@@ -53,7 +53,7 @@
 <tr><td data-date="2026-11-29" class="red"><div class="n">29</div><div class="rk">赤口</div><div class="tags"></div></td><td data-date="2026-11-30"><div class="n">30</div><div class="rk">先勝</div><div class="tags"></div></td><td class="blank"></td><td class="blank"></td><td class="blank"></td><td class="blank"></td><td class="blank"></td></tr></tbody></table>
 <div class="legend" aria-label="凡例"><span><span class="chip tensha">天赦</span>天赦日</span><span><span class="chip ichiryu">万倍</span>一粒万倍日</span><span><span class="chip moon">●新月</span>／<span class="chip moon">○満月</span></span><span><span class="chip retro">逆行</span>水星逆行の始まり／<span class="chip retro">順行</span>終わり</span></div>
 </section>
-<section aria-label="ツヅリのひとこと"><div class="say"><img src="../../../img/tsuzuri.png" alt="黒猫の占い師ツヅリ" width="118" height="100" loading="lazy"><div class="bubble"><p class="who">ツヅリ（おつげの占い師）</p><p>11月は天赦日がなく、一粒万倍日と大安も重なりません。一粒万倍日の<span class="nw">4日</span>・<span class="nw">7日</span>・<span class="nw">8日</span>・<span class="nw">19日</span>・<span class="nw">20日</span>から、予定に合う日を選んでください。2026年10月24日〜11月14日は水星逆行。連絡や契約は、いつもより一度見直してから。</p></div></div></section>
+<section aria-label="ヨイロのひとこと"><div class="say"><img src="../../../img/yoiro.png" alt="フクロウの占い師ヨイロ" width="118" height="100" loading="lazy"><div class="bubble"><p class="who">ヨイロ（おつげの占い師）</p><p>11月は天赦日がなくて、一粒万倍日と大安も重ならない月なんだ。一粒万倍日の<span class="nw">4日</span>・<span class="nw">7日</span>・<span class="nw">8日</span>・<span class="nw">19日</span>・<span class="nw">20日</span>から、きみの予定に合う日を選ぶといいね。2026年10月24日〜11月14日は水星逆行で、雲が出ている時期だね。連絡や契約は、送る前に一度見直してからにしよう。</p></div></div></section>
 <section aria-labelledby="dl"><h2 id="dl">11月の六曜と吉日（日ごと）</h2>
 <table class="days"><thead><tr><th scope="col">日付</th><th scope="col">六曜</th><th scope="col">吉日・暦</th></tr></thead><tbody><tr><th scope="row" class="red"><span class="nw">11月1日（日）</span><small>旧暦 9月22日・己卯</small></th><td class="rk">赤口</td><td class="e"><div class="ev"><span class="t">水星逆行中</span></div></td></tr>
 <tr><th scope="row"><span class="nw">11月2日（月）</span><small>旧暦 9月23日・庚辰</small></th><td class="rk">先勝</td><td class="e"><div class="ev"><span class="t">下弦（05:28）</span><span class="t">水星逆行中</span></div></td></tr>

diff --git a/kichijitsu/2027/03/index.html b/kichijitsu/2027/03/index.html
@@ -53,7 +53,7 @@
 <tr><td data-date="2027-03-28" class="red"><div class="n">28</div><div class="rk">仏滅</div><div class="tags"></div></td><td data-date="2027-03-29"><div class="n">29</div><div class="rk taian">大安</div><div class="tags"></div></td><td data-date="2027-03-30"><div class="n">30</div><div class="rk">赤口</div><div class="tags"></div></td><td data-date="2027-03-31"><div class="n">31</div><div class="rk">先勝</div><div class="tags"><span class="chip ichiryu"><span class="l">一粒万倍日</span><span class="s">万倍</span></span></div></td><td class="blank"></td><td class="blank"></td><td class="blank"></td></tr></tbody></table>
 <div class="legend" aria-label="凡例"><span><span class="chip tensha">天赦</span>天赦日</span><span><span class="chip ichiryu">万倍</span>一粒万倍日</span><span><span class="chip moon">●新月</span>／<span class="chip moon">○満月</span></span><span><span class="chip retro">逆行</span>水星逆行の始まり／<span class="chip retro">順行</span>終わり</span></div>
 </section>
-<section aria-label="ツヅリのひとこと"><div class="say"><img src="../../../img/tsuzuri.png" alt="黒猫の占い師ツヅリ" width="118" height="100" loading="lazy"><div class="bubble"><p class="who">ツヅリ（おつげの占い師）</p><p>3月は天赦日がありません。一粒万倍日と大安が重なる<span class="nw">3月7日（日）</span>が、この月の狙い目です。2027年2月10日〜3月3日は水星逆行。連絡や契約は、いつもより一度見直してから。</p></div></div></section>
+<section aria-label="ヨイロのひとこと"><div class="say"><img src="../../../img/yoiro.png" alt="フクロウの占い師ヨイロ" width="118" height="100" loading="lazy"><div class="bubble"><p class="who">ヨイロ（おつげの占い師）</p><p>たとえるなら、3月は高い山のない、なだらかな月なんだ。天赦日はなくて、一粒万倍日と大安が重なる<span class="nw">3月7日（日）</span>がいちばん高い所だね。2027年2月10日〜3月3日は水星逆行で、雲が出ている時期だね。連絡や契約は、送る前に一度見直してからにしよう。</p></div></div></section>
 <section aria-labelledby="dl"><h2 id="dl">3月の六曜と吉日（日ごと）</h2>
 <table class="days"><thead><tr><th scope="col">日付</th><th scope="col">六曜</th><th scope="col">吉日・暦</th></tr></thead><tbody><tr><th scope="row"><span class="nw">3月1日（月）</span><small>旧暦 1月23日・己卯</small></th><td class="rk taian">大安</td><td class="e"><div class="ev"><span class="t">水星逆行中</span></div></td></tr>
 <tr><th scope="row"><span class="nw">3月2日（火）</span><small>旧暦 1月24日・庚辰</small></th><td class="rk">赤口</td><td class="e"><div class="ev"><span class="t">水星逆行中</span></div></td></tr>
